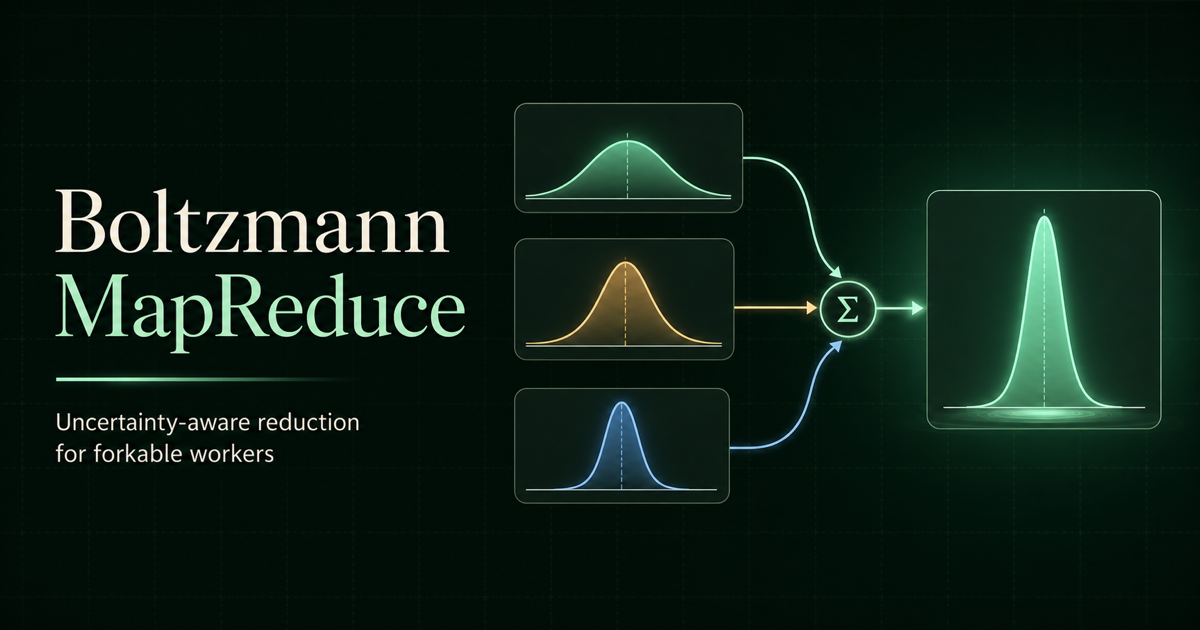
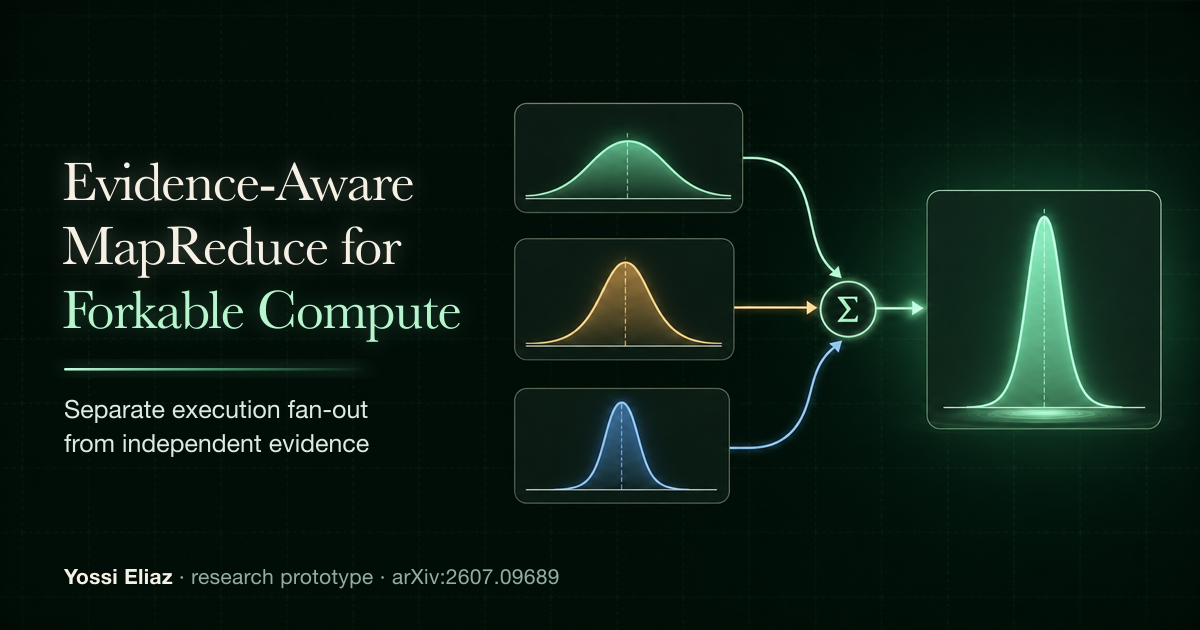
Add author byline, share card, and page metadata
- Add a "By Yossi Eliaz" byline under the hero heading and footer links
  to the professional home and the writing site.
- Regenerate og.png with the current title, subline, and author line,
  keeping the Gaussian-merge art.
- Shorten the title, add canonical and author meta, replace slogan
  descriptions with a plain one, and add TechArticle JSON-LD.
- Add an author and status line to the README.

Changed region(s): [[0.0308, 0.2413, 0.4008, 0.754], [0.0308, 0.9048, 0.4625, 0.9349]]

diff --git a/docs/index.html b/docs/index.html
@@ -4,20 +4,39 @@
   <meta charset="utf-8">
   <meta name="viewport" content="width=device-width, initial-scale=1">
   <meta name="theme-color" content="#07110e">
-  <title>Evidence-Aware MapReduce for Forkable Compute: Separating Execution Fan-Out from Independent Evidence</title>
-  <meta name="description" content="Fork workers freely while keeping their evidence, uncertainty, and shared origins visible.">
+  <title>Evidence-Aware MapReduce for Forkable Compute · Yossi Eliaz</title>
+  <meta name="description" content="Research prototype by Yossi Eliaz: merge forked-worker results by information weight while keeping uncertainty, evidence IDs and lineage visible.">
+  <meta name="author" content="Yossi Eliaz">
+  <link rel="canonical" href="https://zozo123.github.io/boltzmann-mapreduce/">
   <meta property="og:type" content="website">
   <meta property="og:url" content="https://zozo123.github.io/boltzmann-mapreduce/">
-  <meta property="og:title" content="Evidence-Aware MapReduce for Forkable Compute: Separating Execution Fan-Out from Independent Evidence">
-  <meta property="og:description" content="Separate execution fan-out from independent evidence.">
+  <meta property="og:title" content="Evidence-Aware MapReduce for Forkable Compute">
+  <meta property="og:description" content="Research prototype by Yossi Eliaz: merge forked-worker results by information weight while keeping uncertainty, evidence IDs and lineage visible.">
   <meta property="og:image" content="https://zozo123.github.io/boltzmann-mapreduce/og.png">
   <meta property="og:image:width" content="1200">
   <meta property="og:image:height" content="630">
-  <meta property="og:image:alt" content="Three uncertain worker distributions merging into one more precise combined result">
+  <meta property="og:image:alt" content="Evidence-Aware MapReduce for Forkable Compute, by Yossi Eliaz: three uncertain worker distributions merging into one more precise combined result">
   <meta name="twitter:card" content="summary_large_image">
-  <meta name="twitter:title" content="Evidence-Aware MapReduce for Forkable Compute: Separating Execution Fan-Out from Independent Evidence">
-  <meta name="twitter:description" content="Separate execution fan-out from independent evidence.">
+  <meta name="twitter:title" content="Evidence-Aware MapReduce for Forkable Compute">
+  <meta name="twitter:description" content="Research prototype by Yossi Eliaz: merge forked-worker results by information weight while keeping uncertainty, evidence IDs and lineage visible.">
   <meta name="twitter:image" content="https://zozo123.github.io/boltzmann-mapreduce/og.png">
+  <script type="application/ld+json">
+  {
+    "@context": "https://schema.org",
+    "@type": "TechArticle",
+    "headline": "Evidence-Aware MapReduce for Forkable Compute",
+    "description": "Research prototype by Yossi Eliaz: merge forked-worker results by information weight while keeping uncertainty, evidence IDs and lineage visible.",
+    "url": "https://zozo123.github.io/boltzmann-mapreduce/",
+    "image": "https://zozo123.github.io/boltzmann-mapreduce/og.png",
+    "sameAs": "https://arxiv.org/abs/2607.09689",
+    "author": {
+      "@type": "Person",
+      "name": "Yossi Eliaz",
+      "url": "https://yossieliaz.netlify.app/",
+      "sameAs": ["https://github.com/zozo123", "https://www.linkedin.com/in/yossi-eliaz/"]
+    }
+  }
+  </script>
   <style>
     :root {
       --night: #07110e;
@@ -198,6 +217,15 @@
       font-size: clamp(18px, 1.7vw, 21px);
       line-height: 1.55;
     }
+    .byline {
+      margin: -6px 0 24px;
+      color: rgba(239,250,243,.6);
+      font-size: 14px;
+      font-weight: 700;
+      letter-spacing: .02em;
+    }
+    .byline a { color: var(--mint); text-decoration-color: rgba(125,240,183,.4); text-underline-offset: 3px; }
+    .byline a:hover { text-decoration-color: currentColor; }
     .actions { display: flex; flex-wrap: wrap; gap: 12px; margin-top: 34px; }
     .button {
       display: inline-flex;
@@ -978,6 +1006,7 @@
         <div>
           <p class="kicker">Evidence-Aware MapReduce for Forkable Compute</p>
           <h1>Separate execution fan-out from <em>independent evidence</em>.</h1>
+          <p class="byline">By <a href="https://zozo123.github.io/">Yossi Eliaz</a> · research prototype · paper <a href="https://arxiv.org/abs/2607.09689">arXiv:2607.09689</a></p>
           <p class="hero-copy">Fork workers freely. Each answer carries an estimate, its uncertainty, and where its evidence came from. Independent results then combine in proportion to the information they contain.</p>
           <div class="actions">
             <a class="button primary" href="https://raw.githubusercontent.com/zozo123/boltzmann-mapreduce/main/docs/evidence-aware-reduction.pdf">Read the paper</a>
@@ -1324,6 +1353,8 @@
         <a href="https://github.com/zozo123/boltzmann-mapreduce">GitHub</a>
         <a href="https://arxiv.org/abs/2607.09689">arXiv</a>
         <a href="https://raw.githubusercontent.com/zozo123/boltzmann-mapreduce/main/docs/evidence-aware-reduction.pdf">Repository PDF</a>
+        <a href="https://yossieliaz.netlify.app/">Yossi Eliaz</a>
+        <a href="https://zozo123.github.io/">Writing &amp; experiments</a>
       </div>
     </div>
   </footer>

diff --git a/README.md b/README.md
@@ -1,5 +1,7 @@
 # Evidence-Aware MapReduce for Forkable Compute: Separating Execution Fan-Out from Independent Evidence
 
+By [Yossi Eliaz](https://yossieliaz.netlify.app/) · research prototype · [live page](https://zozo123.github.io/boltzmann-mapreduce/) · [arXiv:2607.09689](https://arxiv.org/abs/2607.09689)
+
 Forkable compute can launch many workers from one snapshot. Those workers often
 inherit the same model, prompt, repository, tests, observations, or ancestor. A
 reducer therefore needs to know where each answer came from and how much evidence
